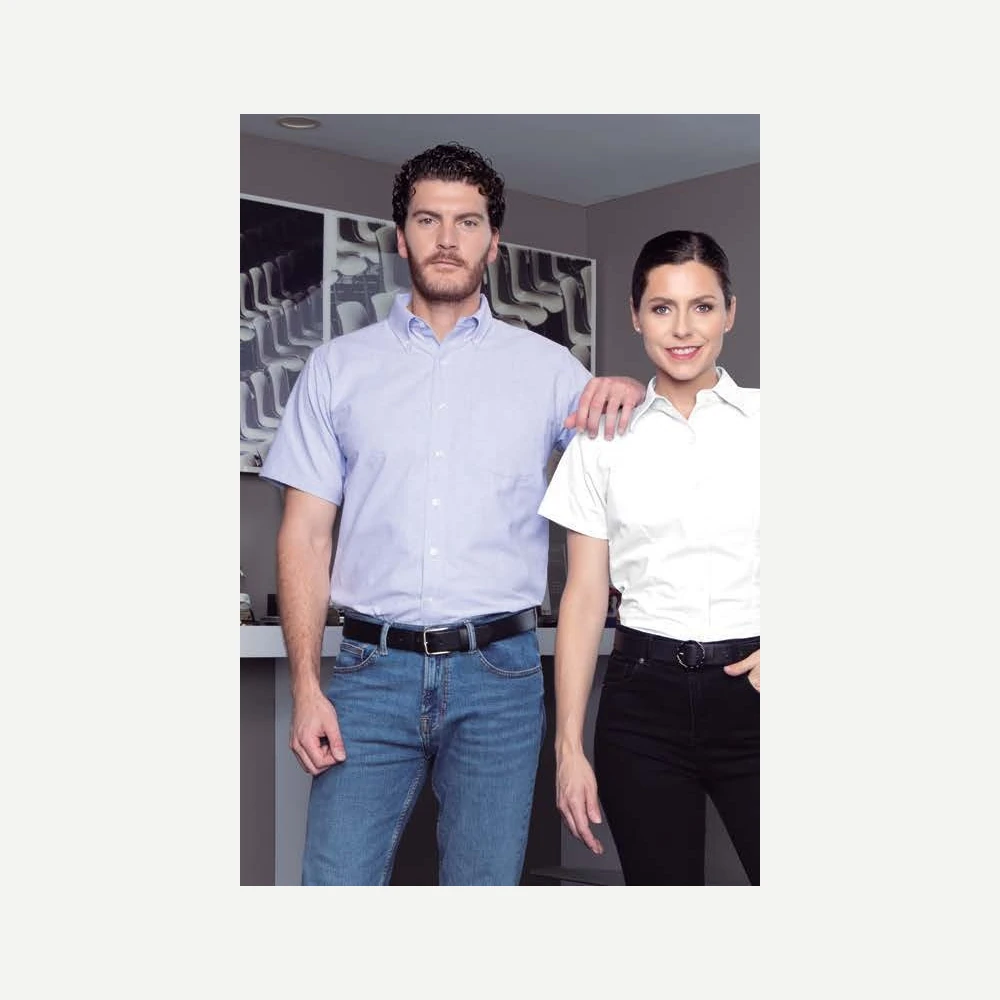
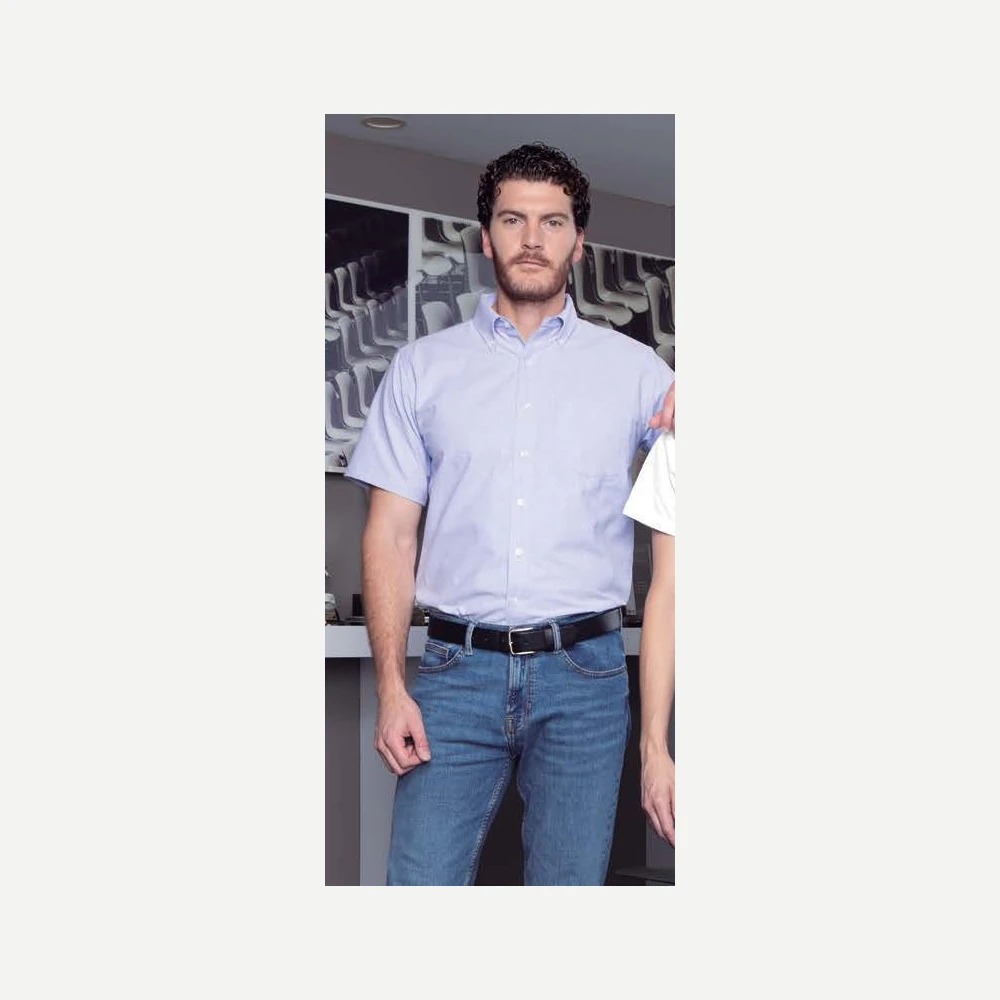
Corregir encuadre de Oxford corta para ambas siluetas

Changed region(s): [[0.217, 0.093, 0.775, 0.899]]

diff --git a/gestion-zain.html b/gestion-zain.html
@@ -24,6 +24,6 @@
       <div class="control__grid"><div><div id="lista"></div><nav class="control__paginas" aria-label="Páginas de solicitudes"><button type="button" class="btn-texto" id="anterior">Anterior</button><span id="pagina"></span><button type="button" class="btn-texto" id="siguiente">Siguiente</button></nav></div><section id="detalle" class="control__detalle" aria-label="Ficha de solicitud"><p>Elige una solicitud para ver sus archivos y detalles.</p></section></div>
     </section>
   </main>
-  <script src="js/config.js?v=10"></script><script src="js/control-pedidos.js?v=4"></script>
+  <script src="js/config.js?v=11"></script><script src="js/control-pedidos.js?v=4"></script>
 </body>
 </html>

diff --git a/index.html b/index.html
@@ -412,7 +412,7 @@
     <p>Puedes cotizar con cualquiera de las dos opciones y cambiar tu elección desde el pie de página. <a href="/privacidad">Aviso de privacidad</a>.</p>
     <div class="medicion__acciones"><button class="btn btn--linea" type="button" id="medicionRechazar">Solo necesarias</button><button class="btn btn--tinta" type="button" id="medicionPermitir">Permitir medición</button></div>
   </section>
-  <script src="js/config.js?v=10"></script>
+  <script src="js/config.js?v=11"></script>
   <script src="js/medicion.js?v=1"></script>
   <script src="js/render.js?v=3"></script>
   <script src="js/trama.js?v=1"></script>

diff --git a/mi-pedido.html b/mi-pedido.html
@@ -16,6 +16,6 @@
     <section id="pedido" hidden aria-label="Detalle de tu pedido"></section>
     <p class="seguimiento__privacidad">Este enlace permite consultar únicamente tu solicitud. Guárdalo y compártelo solo con quien quieras que la vea.</p>
   </main>
-  <script src="js/config.js?v=10"></script><script src="js/mi-pedido.js?v=2"></script>
+  <script src="js/config.js?v=11"></script><script src="js/mi-pedido.js?v=2"></script>
 </body>
 </html>

diff --git a/js/config.js b/js/config.js
@@ -2319,7 +2319,7 @@ const yazbek = {
         "recorte": [
           0,
           0,
-          520,
+          350,
           772
         ],
         "alteracionColor": false
@@ -2409,9 +2409,9 @@ const yazbek = {
         "pagina": 39,
         "objeto": "39-Im0",
         "recorte": [
-          425,
-          0,
-          900,
+          295,
+          70,
+          640,
           772
         ],
         "alteracionColor": false

diff --git a/README.md b/README.md
@@ -4,7 +4,7 @@
 
 14 familias y 25 referencias verificadas del PDF completo. Dama/caballero se seleccionan dentro de una ficha; código, tallas y colores corresponden a la variante exacta. Las fotos del catálogo permanecen sin teñir. El personalizador usa **esquemas orientativos identificados** y una foto real de referencia; los PNG también llevan la advertencia. DTF por tejido pendiente de confirmar. Las seis prendas genéricas ya no se seleccionan; gorras y softshell esperan catálogo. Las 13 bolsas conservan su catálogo y mínimos.
 
-`js/config.js` conserva IDs retirados en `productosHistoricos` para folios registrados, no para solicitudes nuevas. La API comprueba color/código, tallas y su suma, y deriva la ficha técnica. **No borrar datos ni originales antiguos**. Catálogo y servidor se regeneran/despliegan juntos: Supabase Edge versión 5; no basta con un push. Datos y criterios completos en [docs/CATALOGO-YAZBEK.md](docs/CATALOGO-YAZBEK.md). Pruebas: `node --test tests/*.test.mjs`, 34 aprobadas. Las notas históricas debajo no prevalecen sobre esta sección.
+`js/config.js` conserva IDs retirados en `productosHistoricos` para folios registrados, no para solicitudes nuevas. La API comprueba color/código, tallas y su suma, y deriva la ficha técnica. **No borrar datos ni originales antiguos**. Catálogo y servidor se regeneran/despliegan juntos: Supabase Edge versión 6; no basta con un push. Datos y criterios completos en [docs/CATALOGO-YAZBEK.md](docs/CATALOGO-YAZBEK.md). Pruebas: `node --test tests/*.test.mjs`, 34 aprobadas. Las notas históricas debajo no prevalecen sobre esta sección.
 
 
 Página para vender uniformes y artículos promocionales con logo (bordado, serigrafía y DTF).

diff --git a/docs/PEDIDOS.md b/docs/PEDIDOS.md
@@ -4,7 +4,7 @@
 
 14 familias y 25 referencias verificadas del PDF completo. Dama/caballero se seleccionan dentro de una ficha; código, tallas y colores corresponden a la variante exacta. Las fotos del catálogo permanecen sin teñir. El personalizador usa **esquemas orientativos identificados** y una foto real de referencia; los PNG también llevan la advertencia. DTF por tejido pendiente de confirmar. Las seis prendas genéricas ya no se seleccionan; gorras y softshell esperan catálogo. Las 13 bolsas conservan su catálogo y mínimos.
 
-`js/config.js` conserva IDs retirados en `productosHistoricos` para folios registrados, no para solicitudes nuevas. La API comprueba color/código, tallas y su suma, y deriva la ficha técnica. **No borrar datos ni originales antiguos**. Catálogo y servidor se regeneran/despliegan juntos: Supabase Edge versión 5; no basta con un push. Datos y criterios completos en [docs/CATALOGO-YAZBEK.md](CATALOGO-YAZBEK.md). Pruebas: `node --test tests/*.test.mjs`, 34 aprobadas. Las notas históricas debajo no prevalecen sobre esta sección.
+`js/config.js` conserva IDs retirados en `productosHistoricos` para folios registrados, no para solicitudes nuevas. La API comprueba color/código, tallas y su suma, y deriva la ficha técnica. **No borrar datos ni originales antiguos**. Catálogo y servidor se regeneran/despliegan juntos: Supabase Edge versión 6; no basta con un push. Datos y criterios completos en [docs/CATALOGO-YAZBEK.md](CATALOGO-YAZBEK.md). Pruebas: `node --test tests/*.test.mjs`, 34 aprobadas. Las notas históricas debajo no prevalecen sobre esta sección.
 
 
 Actualizado: 13-oct-2026. La venta y los precios se acuerdan por WhatsApp.

diff --git a/docs/CATALOGO-YAZBEK.md b/docs/CATALOGO-YAZBEK.md
@@ -61,7 +61,7 @@ Archivos principales: `js/config.js`, `js/zain.js`, `index.html`, `css/zain.css`
 
 - `node --test tests/*.test.mjs`: **34 pruebas aprobadas**, incluidas **614 combinaciones modelo/color/talla**; variantes inválidas, composición gris jaspe, mínimos de bolsas, autorización y compatibilidad histórica. Pruebas de medición existentes permanecen aprobadas/desactivadas.
 - Navegador: fotografía permanece igual al cambiar color; selector cambia código/tallas; cantidades se reinician al cambiar silueta; Expo carga en el editor con min=100/step=50; escritorio 1280×800 y móvil 390×844, sin desbordamiento.
-- **Supabase Edge `zain-pedidos` versión 5, ACTIVE**, desplegada independientemente del push de GitHub. Catálogo y handler regenerados desde la misma fuente. Conserva verificación de permisos propia; no cambia RLS, tablas ni bucket.
+- **Supabase Edge `zain-pedidos` versión 6, ACTIVE**, desplegada independientemente del push de GitHub. Catálogo y handler regenerados desde la misma fuente. Conserva verificación de permisos propia; no cambia RLS, tablas ni bucket.
 - Solicitud sintética **NO COTIZAR**, cinco prendas D0300 Gris Jaspe 102: se guardaron original SVG y render PNG; consulta devolvió el código/material/cantidad correctos; carrito vacío y borrador cerrado tras guardado. Seguimiento cargó el render y los dos botones de descarga, sin notas privadas. La prueba se dejó **cancelada**; WhatsApp fue interceptado, sin mensaje real. Ningún enlace con token se guarda en esta guía.
 - Sitio objetivo: https://zain-amber-sigma.vercel.app ; evidencia final de commit y comprobación de publicación se conserva en las notas del Cerebro.
 

diff --git a/CLAUDE.md b/CLAUDE.md
@@ -4,7 +4,7 @@
 
 14 familias y 25 referencias verificadas del PDF completo. Dama/caballero se seleccionan dentro de una ficha; código, tallas y colores corresponden a la variante exacta. Las fotos del catálogo permanecen sin teñir. El personalizador usa **esquemas orientativos identificados** y una foto real de referencia; los PNG también llevan la advertencia. DTF por tejido pendiente de confirmar. Las seis prendas genéricas ya no se seleccionan; gorras y softshell esperan catálogo. Las 13 bolsas conservan su catálogo y mínimos.
 
-`js/config.js` conserva IDs retirados en `productosHistoricos` para folios registrados, no para solicitudes nuevas. La API comprueba color/código, tallas y su suma, y deriva la ficha técnica. **No borrar datos ni originales antiguos**. Catálogo y servidor se regeneran/despliegan juntos: Supabase Edge versión 5; no basta con un push. Datos y criterios completos en [docs/CATALOGO-YAZBEK.md](docs/CATALOGO-YAZBEK.md). Pruebas: `node --test tests/*.test.mjs`, 34 aprobadas. Las notas históricas debajo no prevalecen sobre esta sección.
+`js/config.js` conserva IDs retirados en `productosHistoricos` para folios registrados, no para solicitudes nuevas. La API comprueba color/código, tallas y su suma, y deriva la ficha técnica. **No borrar datos ni originales antiguos**. Catálogo y servidor se regeneran/despliegan juntos: Supabase Edge versión 6; no basta con un push. Datos y criterios completos en [docs/CATALOGO-YAZBEK.md](docs/CATALOGO-YAZBEK.md). Pruebas: `node --test tests/*.test.mjs`, 34 aprobadas. Las notas históricas debajo no prevalecen sobre esta sección.
 
 
 # ZAIN — instrucciones para Claude Code
